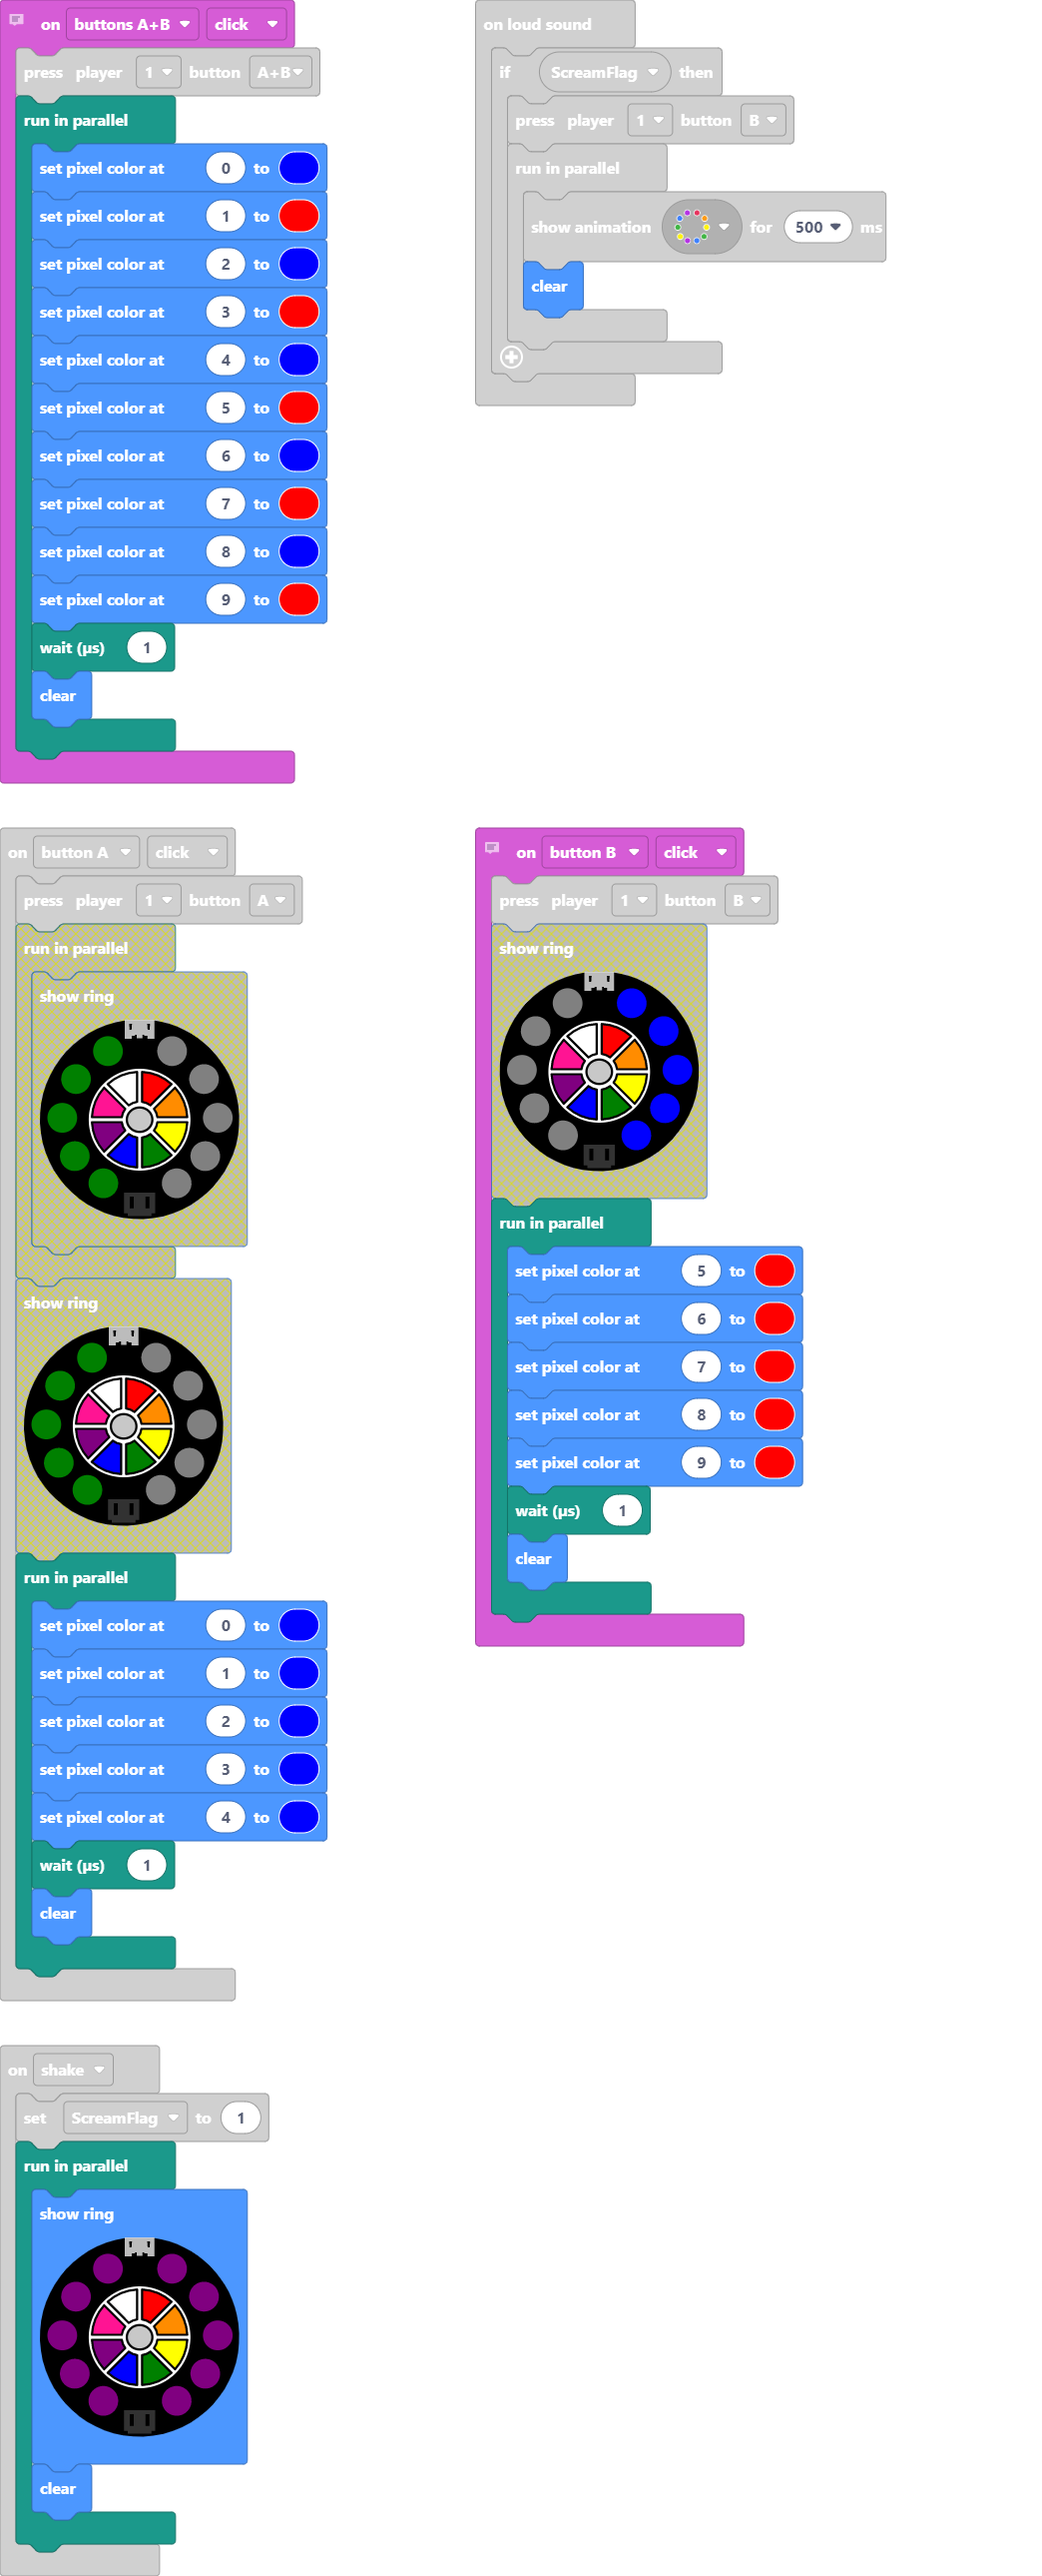
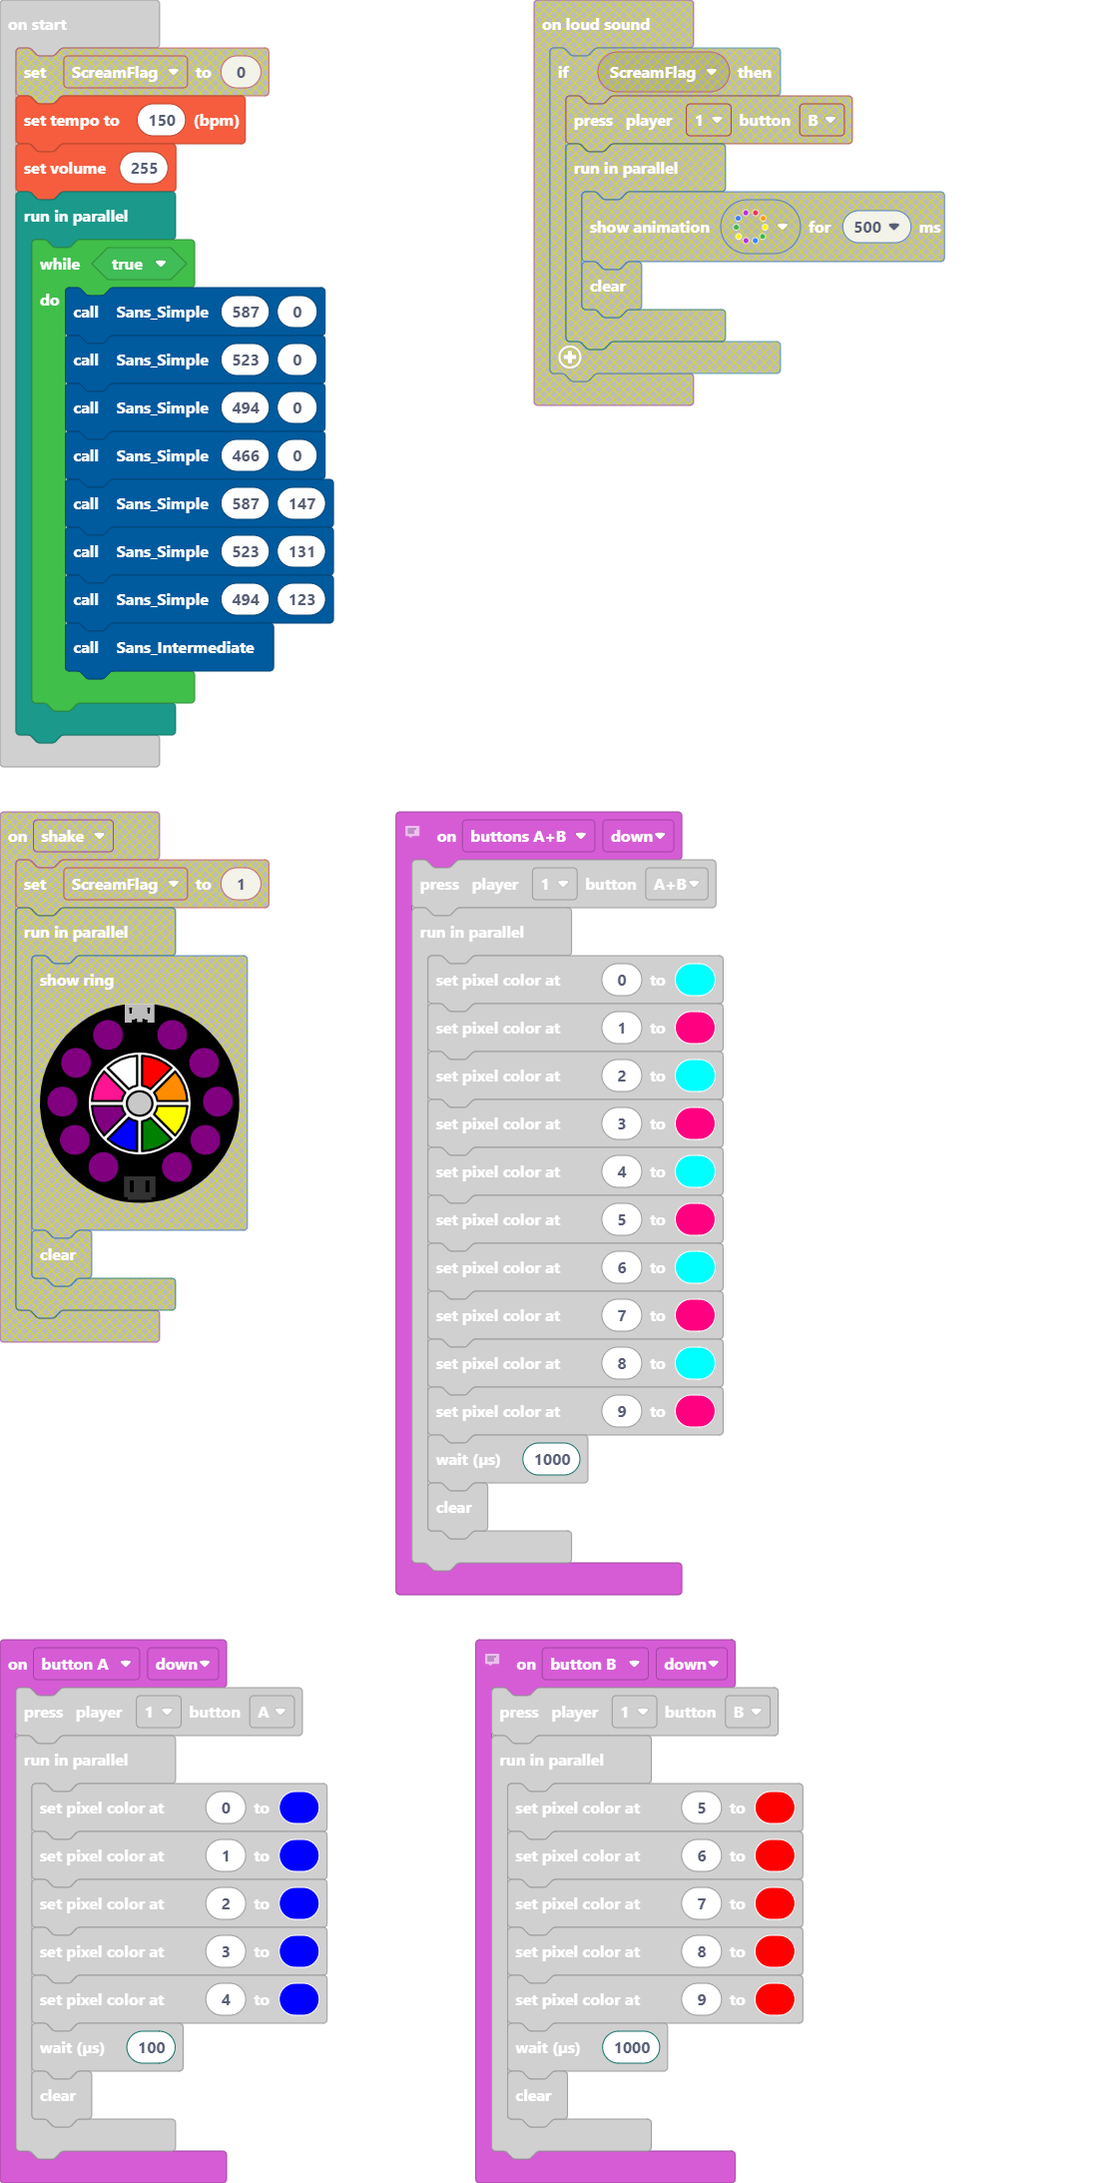
Update main.blocks, main.ts

diff --git a/main.ts b/main.ts
@@ -1,29 +1,45 @@
-// gravity
-input.buttonsAB.onEvent(ButtonEvent.Click, function () {
-    makerController.player1.press(ArcadeButton.AB)
+input.buttonA.onEvent(ButtonEvent.Down, function () {
+    makerController.player1.press(ArcadeButton.A)
     control.runInParallel(function () {
         light.setPixelColor(0, 0x0000ff)
-        light.setPixelColor(1, 0xff0000)
+        light.setPixelColor(1, 0x0000ff)
         light.setPixelColor(2, 0x0000ff)
-        light.setPixelColor(3, 0xff0000)
+        light.setPixelColor(3, 0x0000ff)
         light.setPixelColor(4, 0x0000ff)
-        light.setPixelColor(5, 0xff0000)
-        light.setPixelColor(6, 0x0000ff)
-        light.setPixelColor(7, 0xff0000)
-        light.setPixelColor(8, 0x0000ff)
-        light.setPixelColor(9, 0xff0000)
-        control.waitMicros(1)
+        control.waitMicros(100)
         light.clear()
     })
 })
-input.onLoudSound(function () {
-    if (ScreamFlag) {
-        makerController.player1.press(ArcadeButton.B)
-        control.runInParallel(function () {
-            light.showAnimation(light.rainbowAnimation, 500)
-            light.clear()
-        })
-    }
+// gravity
+input.buttonsAB.onEvent(ButtonEvent.Down, function () {
+    makerController.player1.press(ArcadeButton.AB)
+    control.runInParallel(function () {
+        light.setPixelColor(0, 0x00ffff)
+        light.setPixelColor(1, 0xff0080)
+        light.setPixelColor(2, 0x00ffff)
+        light.setPixelColor(3, 0xff0080)
+        light.setPixelColor(4, 0x00ffff)
+        light.setPixelColor(5, 0xff0080)
+        light.setPixelColor(6, 0x00ffff)
+        light.setPixelColor(7, 0xff0080)
+        light.setPixelColor(8, 0x00ffff)
+        light.setPixelColor(9, 0xff0080)
+        control.waitMicros(1000)
+        light.clear()
+    })
+})
+// Jetpack
+input.buttonB.onEvent(ButtonEvent.Down, function () {
+    makerController.player1.press(ArcadeButton.B)
+    control.runInParallel(function () {
+        light.setPixelColor(5, 0xff0000)
+        light.setPixelColor(6, 0xff0000)
+        light.setPixelColor(7, 0xff0000)
+        light.setPixelColor(8, 0xff0000)
+        light.setPixelColor(9, 0xff0000)
+        control.waitMicros(1000)
+        light.clear()
+    })
 })
 function Sans_Intermediate () {
     music.ringTone(117)
@@ -50,27 +66,6 @@ function Sans_Intermediate () {
     music.playTone(784, music.beat(BeatFraction.Quarter))
     music.stopAllSounds()
 }
-input.buttonA.onEvent(ButtonEvent.Click, function () {
-    makerController.player1.press(ArcadeButton.A)
-    control.runInParallel(function () {
-        light.setPixelColor(0, 0x0000ff)
-        light.setPixelColor(1, 0x0000ff)
-        light.setPixelColor(2, 0x0000ff)
-        light.setPixelColor(3, 0x0000ff)
-        light.setPixelColor(4, 0x0000ff)
-        control.waitMicros(1)
-        light.clear()
-    })
-})
-input.onGesture(Gesture.Shake, function () {
-    ScreamFlag = 1
-    control.runInParallel(function () {
-        light.showRing(
-        `purple purple purple purple purple purple purple purple purple purple`
-        )
-        light.clear()
-    })
-})
 function Sans_Simple (FirstNote: number, LowNote: number) {
     music.ringTone(LowNote)
     music.playTone(FirstNote, music.beat(BeatFraction.Quarter))
@@ -94,18 +89,17 @@ function Sans_Simple (FirstNote: number, LowNote: number) {
     music.playTone(784, music.beat(BeatFraction.Quarter))
     music.stopAllSounds()
 }
-// Jetpack
-input.buttonB.onEvent(ButtonEvent.Click, function () {
-    makerController.player1.press(ArcadeButton.B)
-    control.runInParallel(function () {
-        light.setPixelColor(5, 0xff0000)
-        light.setPixelColor(6, 0xff0000)
-        light.setPixelColor(7, 0xff0000)
-        light.setPixelColor(8, 0xff0000)
-        light.setPixelColor(9, 0xff0000)
-        control.waitMicros(1)
-        light.clear()
-    })
+music.setTempo(150)
+music.setVolume(255)
+control.runInParallel(function () {
+    while (true) {
+        Sans_Simple(587, 0)
+        Sans_Simple(523, 0)
+        Sans_Simple(494, 0)
+        Sans_Simple(466, 0)
+        Sans_Simple(587, 147)
+        Sans_Simple(523, 131)
+        Sans_Simple(494, 123)
+        Sans_Intermediate()
+    }
 })
-let ScreamFlag = 0
-ScreamFlag = 0
